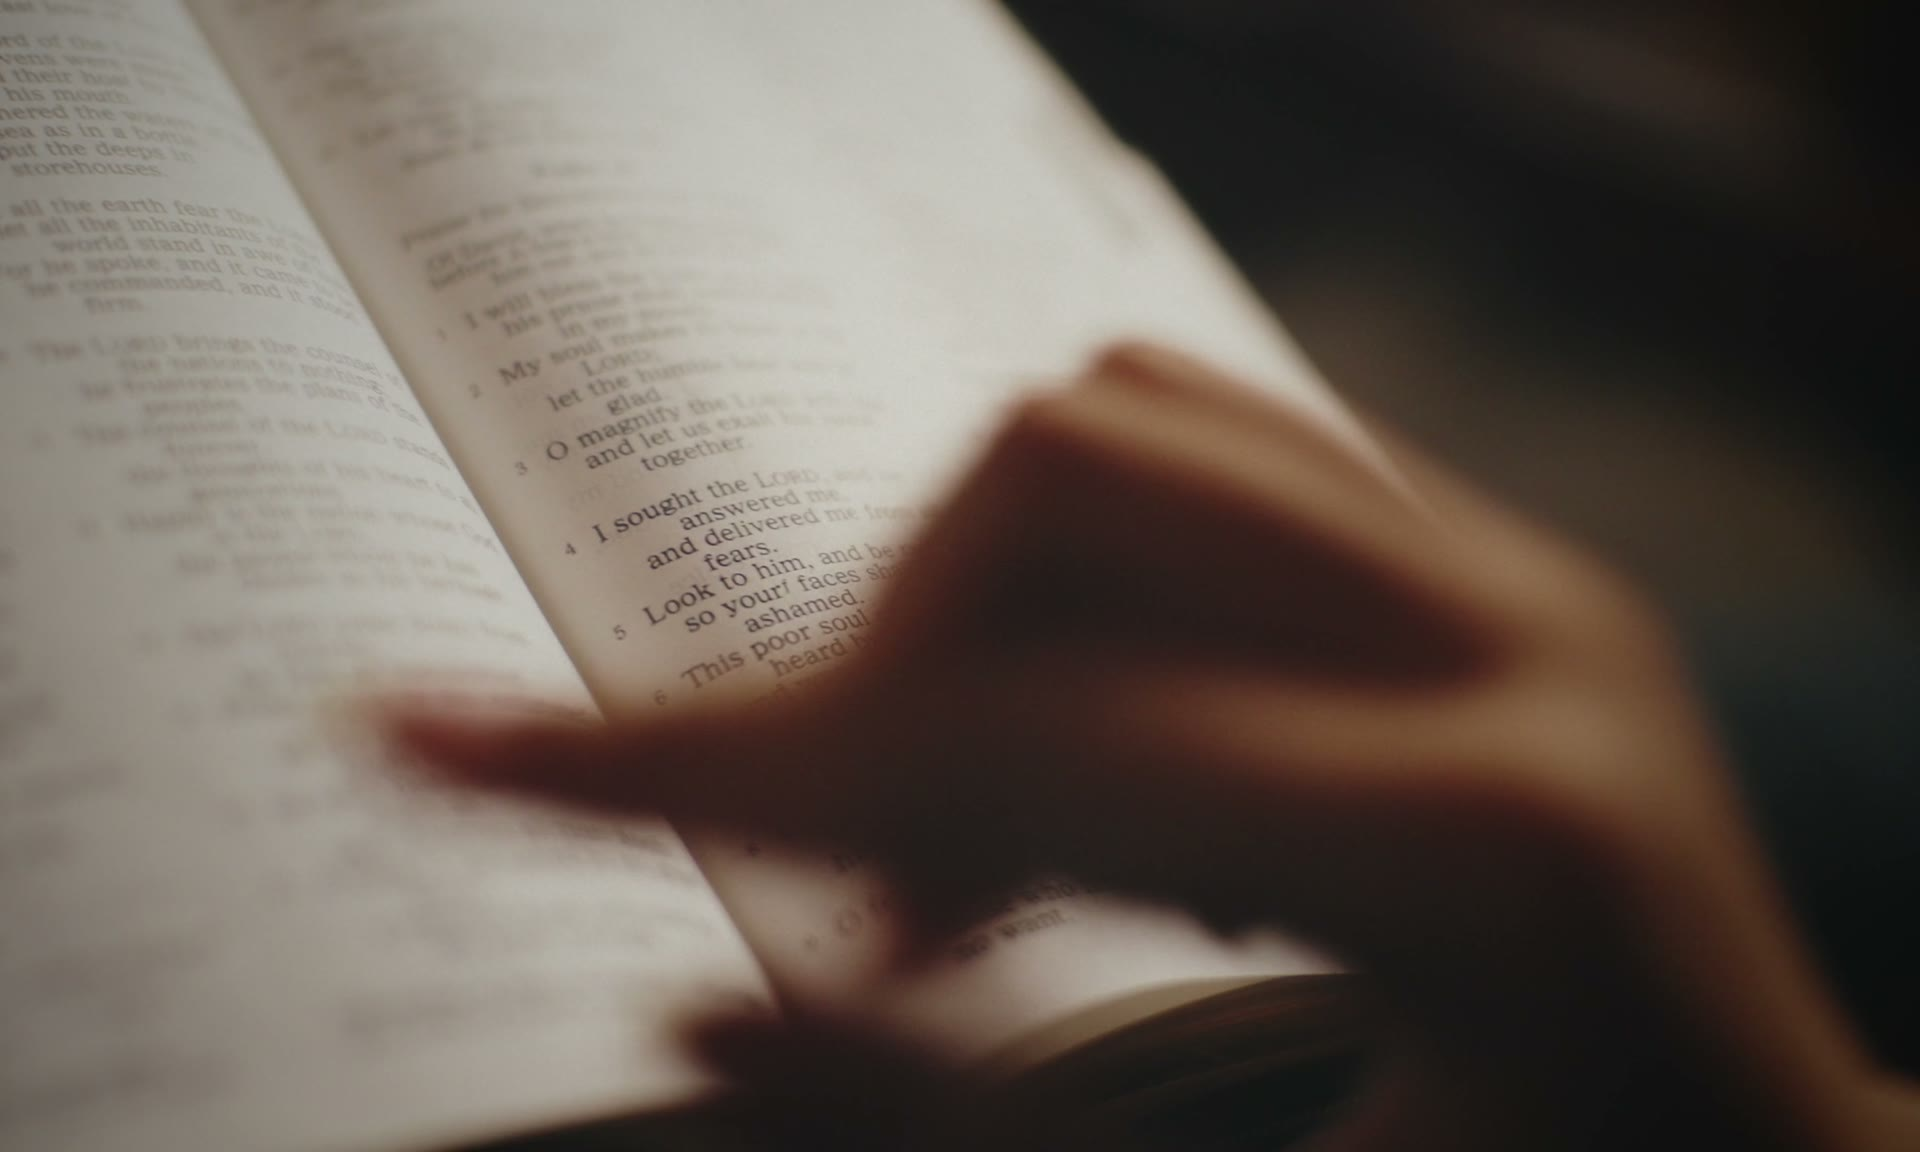
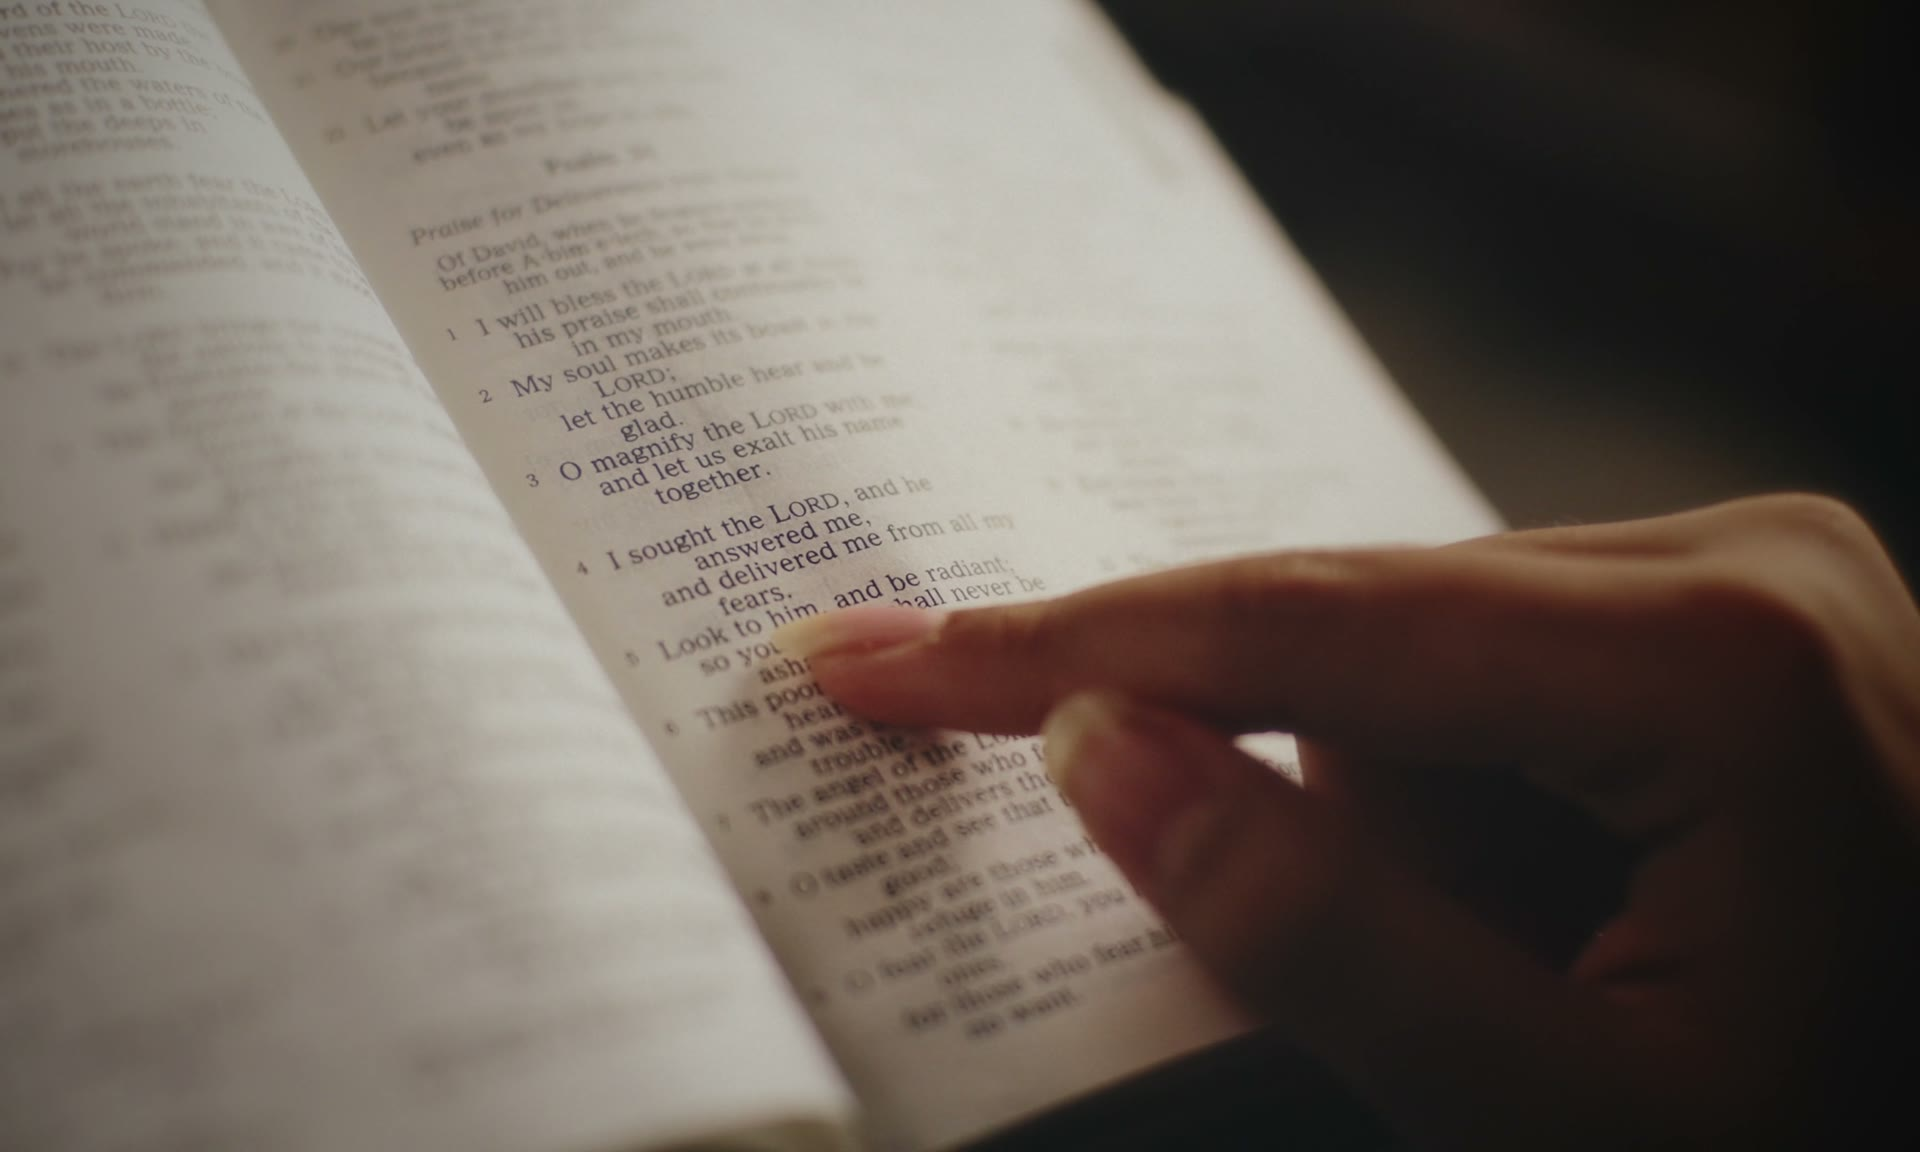
feat: delight pass — photo breath + bold vision + extended hero tail
Three small additions that make the page feel more alive without
breaking the brand contract (no parallax, no bounce, ≤4% scale Ken
Burns within the existing animation budget).

Photo breath
- Two new @user (chosenPhotoBreath + chosenPhotoBreathAlt) that
  scale ≤4% with a small translate over 22–26s. Applied to every
  .chosen-image-mosaic__img and .chosen-story__media img so prominent
  photo surfaces breathe slowly as you scroll past.
- Adjacent cells alternate via :nth-child(2n) + .chosen-story--split-left
  so the page never reads as a synchronised swarm. Phase-offset by --i.
- Pauses on cell hover so the gold-tint overlay reads against a still
  photo. Tile-grid + people-grid skip breath because they already own
  hover-scale treatments that would conflict.
- Gated on prefers-reduced-motion: no-preference; will-change: transform.

Bold vision section (Ignite-inspired)
- chosen/vision now uses chosen-display-2xl (clamp 80–240px) and a
  max-w-wide container so the headline reads as a manifesto pause.
- Scripture + cite + gold rule are now wrapped in a conditional so
  vision can serve as a pure mission statement (no verse) without the
  empty rule line still showing.
- Inserted on front-page.html between the stat-strip and the tile-grid:
  "Our vision · Equipped to lead. Sent to shine. · Practical, life-
  changing steps to boldly live a life of purpose..." — the canonical
  equipping copy from the brand voice doc, without theme-verse ride-
[…]

diff --git a/src/css/input.css b/src/css/input.css
@@ -762,6 +762,30 @@
     .chosen-marquee__track {
       animation: chosenMarquee var(--chosen-marquee-duration, 35s) linear infinite;
     }
+
+    /* ---- Photo "breath" — slow Ken Burns on prominent photo surfaces so
+       the page feels alive as you scroll. ≤4% scale, 22–26 s/cycle. Two
+       variants alternated via :nth-child so adjacent cells don't sync.
+       Phase-offset by --i (set inline in render.php) so the same variant
+       across siblings starts at different points in the loop.
+       Tile-grid + people-grid skip this — they already own hover-scale
+       treatments that would conflict with a continuous transform. */
+    .chosen-image-mosaic__img,
+    .chosen-story__media img {
+      animation: chosenPhotoBreath 22s ease-in-out infinite;
+      animation-delay: calc(var(--i, 0) * -2.7s);
+      will-change: transform;
+    }
+    .chosen-image-mosaic__cell:nth-child(2n) .chosen-image-mosaic__img,
+    .chosen-story--split-left .chosen-story__media img {
+      animation-name: chosenPhotoBreathAlt;
+      animation-duration: 26s;
+    }
+    /* Pause breath on cell hover so the existing gold-tint overlay reads
+       cleanly against a still photo. Resume on un-hover. */
+    .chosen-image-mosaic__cell:hover .chosen-image-mosaic__img {
+      animation-play-state: paused;
+    }
   }
 
   /* When reduced motion is on: hide the autoplay video, reveal poster fallback,
@@ -835,4 +859,16 @@
   0%   { transform: scale(1); }
   50%  { transform: scale(1.04); }
   100% { transform: scale(1); }
+}
+
+/* Photo "breath" — slow Ken Burns within the brand cap (≤4% scale,
+   ~22 s/cycle). Two variants alternated across adjacent cells so the
+   page never reads as a synchronized swarm. Off with reduced motion. */
+@keyframes chosenPhotoBreath {
+  0%, 100% { transform: scale(1) translate(0, 0); }
+  50%      { transform: scale(1.04) translate(-1.2%, -0.8%); }
+}
+@keyframes chosenPhotoBreathAlt {
+  0%, 100% { transform: scale(1.035) translate(0.9%, 0.6%); }
+  50%      { transform: scale(1) translate(0, 0); }
 }

diff --git a/templates/front-page.html b/templates/front-page.html
@@ -13,6 +13,8 @@
 
 <!-- wp:chosen/stat-strip {"eyebrow":"By the numbers","stats":[{"displayText":"Hundreds","label":"Of young Catholics"},{"value":4,"prefix":"","suffix":"","label":"Days of encounter"},{"value":8,"prefix":"","suffix":"","label":"Cities sending youth"}],"background":"photo","photoStem":"img_4837"} /-->
 
+<!-- wp:chosen/vision {"eyebrow":"Our vision","headline":"Equipped to lead. Sent to shine.","body":"Come and get equipped to be a leader. Practical, life-changing steps to boldly live a life of purpose, share the joy of the gospel, and change the lives around you.","scripture":"","cite":""} /-->
+
 <!-- wp:chosen/expect-tile-grid {"eyebrow":"What to expect","headline":"Four days of encounter.","tiles":[{"title":"Eucharistic Adoration","description":"Kneel before the Blessed Sacrament in a hall of song and silence, and let Him look at you.","featured":true,"photoStem":"dsc00424"},{"title":"Daily Mass","description":"Begin and end each day at the altar where Heaven meets earth and the whole gathering is fed.","featured":false},{"title":"Talks & Teaching","description":"Hear bishops, priests and lay missionaries open the Word with clarity, courage and conviction.","featured":false},{"title":"Live Worship","description":"Lift your voice with the Masterplan band as the room becomes a single song to the Shepherd.","featured":true,"photoStem":"dsc09433"},{"title":"Workshops","description":"Go deeper into faith, vocation and mission through practical sessions built for life beyond the conference.","featured":false},{"title":"Theatre & Testimony","description":"Watch the Gospel come alive on stage and hear young Australians tell what Christ has done.","featured":false},{"title":"Confession","description":"Step into the freedom of mercy; priests will be available throughout the four days to hear your heart.","featured":false},{"title":"Vocation Expo","description":"Meet religious orders, missionaries and movements, and ask the questions you've been carrying.","featured":false}]} /-->
 
 <!-- wp:chosen/story-section {"eyebrow":"The 2026 theme","heading":"Be Radiant","body":"<p><em>\"Look to him, and be radiant; so your faces shall never be ashamed.\"</em> — Psalm 34:5</p><p>The verse our 2026 theme rests on. The radiance the psalmist describes is not earned, not performed — it is borrowed from a face turned toward the Lord. So we turn together. Four days of looking, and a year of carrying that light home.</p>","layout":"stacked","background":"sun"} /-->

diff --git a/src/blocks/vision/render.php b/src/blocks/vision/render.php
@@ -19,11 +19,11 @@ $scripture = isset( $attributes['scripture'] ) ? (string) $attributes['scripture
 $cite      = isset( $attributes['cite'] ) ? (string) $attributes['cite'] : '';
 
 $wrapper_attrs = get_block_wrapper_attributes( [
-	'class' => 'chosen-vision bg-chosen-navy text-white py-24 md:py-36',
+	'class' => 'chosen-vision bg-chosen-navy text-white py-28 md:py-40',
 ] );
 ?>
 <section <?php echo $wrapper_attrs; // phpcs:ignore WordPress.Security.EscapeOutput ?>>
-	<div class="chosen-fade-up mx-auto max-w-content px-6">
+	<div class="chosen-fade-up mx-auto max-w-wide px-6">
 		<?php if ( $eyebrow ) : ?>
 			<p class="text-[11px] font-bold uppercase tracking-[0.18em] text-chosen-gold">
 				<?php echo esc_html( $eyebrow ); ?>
@@ -32,7 +32,7 @@ $wrapper_attrs = get_block_wrapper_attributes( [
 
 		<?php if ( $headline ) : ?>
 			<h2
-				class="chosen-display-xl mt-6 text-white"
+				class="chosen-display-2xl mt-6 text-white"
 				data-split="line"
 			>
 				<?php echo esc_html( $headline ); ?>
@@ -40,23 +40,25 @@ $wrapper_attrs = get_block_wrapper_attributes( [
 		<?php endif; ?>
 
 		<?php if ( $body ) : ?>
-			<p class="mt-8 max-w-xl text-[17px] leading-relaxed text-white/85">
+			<p class="mt-8 max-w-2xl text-[clamp(17px,1.6vw,22px)] font-light italic leading-relaxed text-white/85">
 				<?php echo esc_html( $body ); ?>
 			</p>
 		<?php endif; ?>
 
-		<span class="chosen-rule-grow mt-10 w-12 block" aria-hidden="true"></span>
+		<?php if ( $scripture || $cite ) : ?>
+			<span class="chosen-rule-grow mt-10 w-12 block" aria-hidden="true"></span>
 
-		<?php if ( $scripture ) : ?>
-			<blockquote class="mt-6 max-w-xl text-[22px] font-light italic leading-relaxed text-white">
-				<?php echo esc_html( $scripture ); ?>
-			</blockquote>
-		<?php endif; ?>
+			<?php if ( $scripture ) : ?>
+				<blockquote class="mt-6 max-w-xl text-[22px] font-light italic leading-relaxed text-white">
+					<?php echo esc_html( $scripture ); ?>
+				</blockquote>
+			<?php endif; ?>
 
-		<?php if ( $cite ) : ?>
-			<cite class="mt-3 inline-block not-italic text-[11px] font-bold uppercase tracking-[0.18em] text-chosen-gold">
-				<?php echo esc_html( $cite ); ?>
-			</cite>
+			<?php if ( $cite ) : ?>
+				<cite class="mt-3 inline-block not-italic text-[11px] font-bold uppercase tracking-[0.18em] text-chosen-gold">
+					<?php echo esc_html( $cite ); ?>
+				</cite>
+			<?php endif; ?>
 		<?php endif; ?>
 	</div>
 </section>